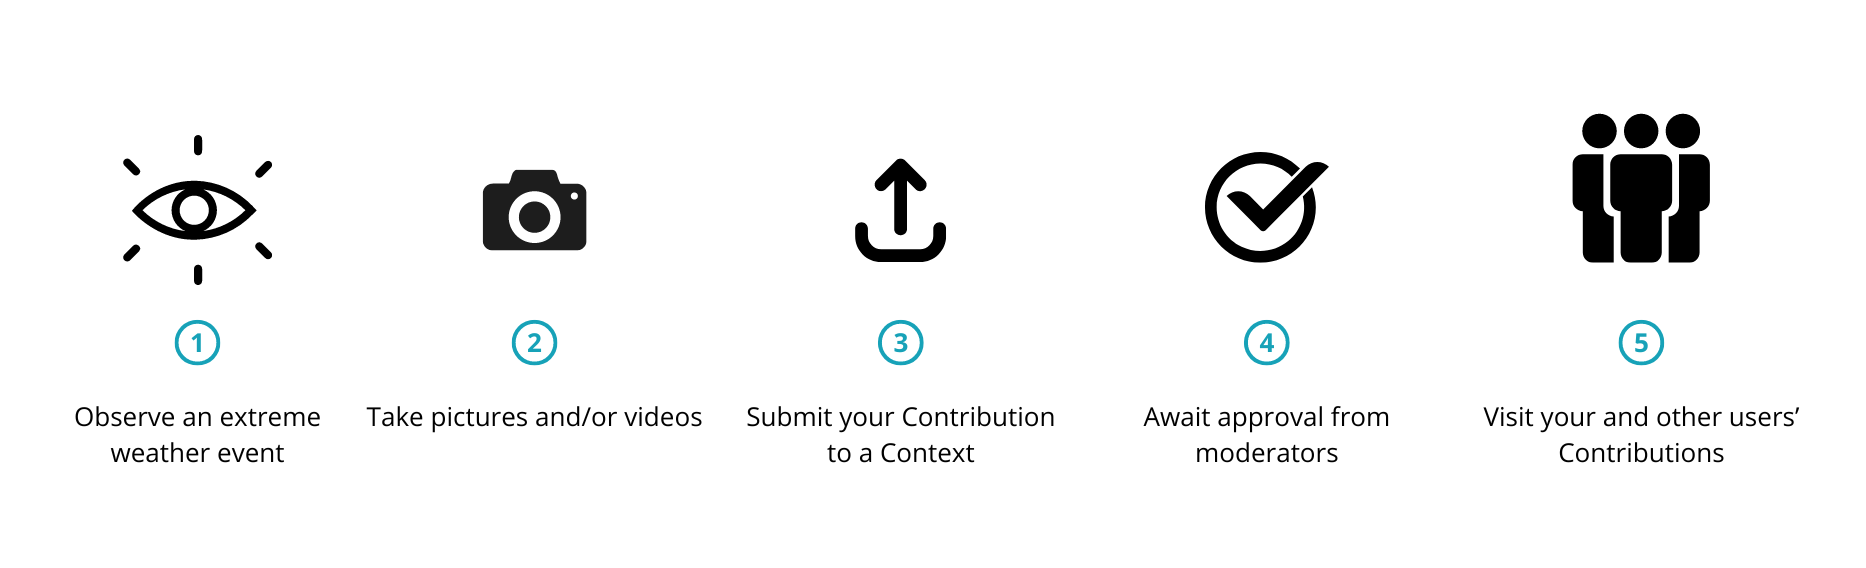
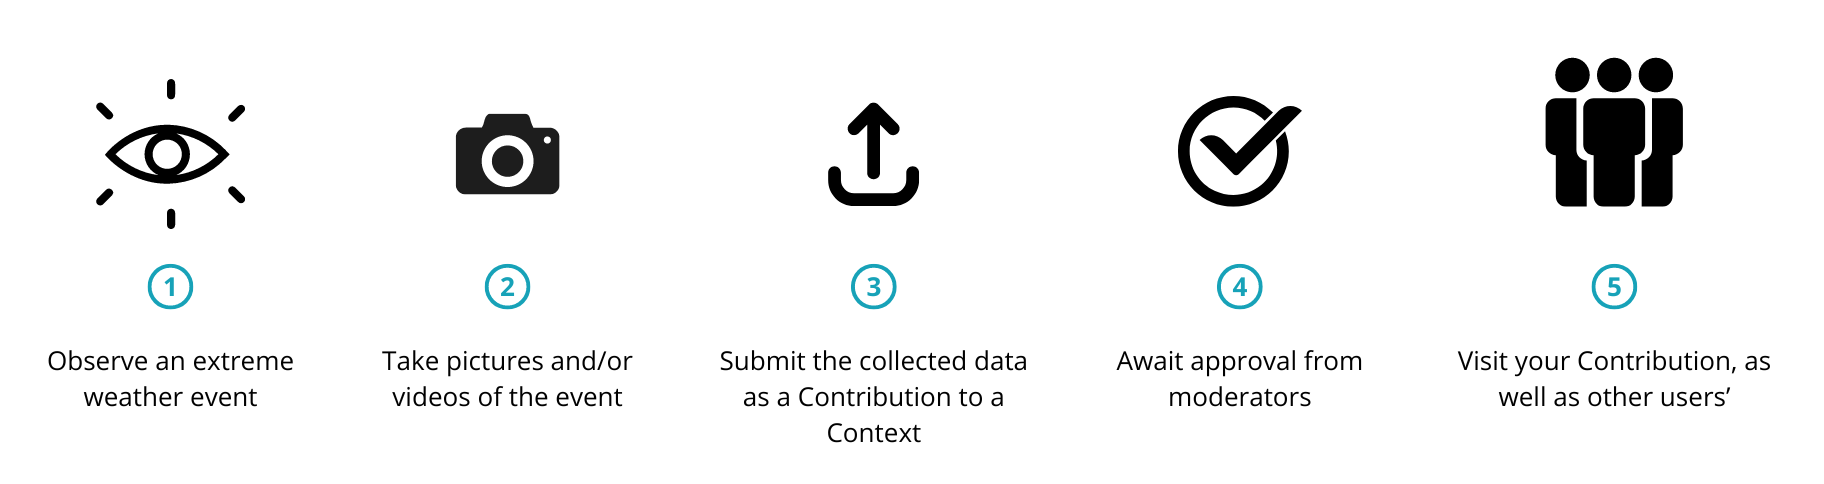
Extra questions in Contribution form

diff --git a/contributions/templates/contributions/contribution_form.html b/contributions/templates/contributions/contribution_form.html
@@ -50,12 +50,54 @@
     .word-color {
         color: #17a2b8;
     }
+
+    .hidden {
+        display: none;
+    }
 </style>
 
 
 <script>
 
+    function showDivs(divsToShow, divsToHide) {
+        for (let div of divsToHide) {
+            div.classList.add("hidden");
+        }
+        for (let div of divsToShow) {
+            div.classList.remove("hidden");
+        }
+    }
+
+    // Inputs are all inside form. Depending on selection, they are hidden or shown
+
     document.addEventListener('DOMContentLoaded', () => {
+
+        // Flood
+        var div_id_floating_objects_time = document.getElementById("div_id_floating_objects_time");
+        var div_id_water_height = document.getElementById("div_id_water_height");
+        // Tornado
+        var div_id_velocity = document.getElementById("div_id_velocity");
+        var div_id_tornado_type = document.getElementById("div_id_tornado_type");
+
+        // By default, 'Flood' is selected
+        showDivs([div_id_floating_objects_time, div_id_water_height], [div_id_velocity, div_id_tornado_type]);
+        console.log("hid");
+
+        document.getElementById("id_situationObserved").addEventListener("change", (event) => {
+            situationObserved = event.target.value;
+
+            if (situationObserved == "FLOOD") {
+                showDivs([div_id_floating_objects_time, div_id_water_height], [div_id_velocity, div_id_tornado_type]);
+            } else if (situationObserved == "TORNADO") {
+                showDivs([div_id_velocity, div_id_tornado_type], [div_id_floating_objects_time, div_id_water_height]);
+            } else {
+                showDivs([], [div_id_floating_objects_time, div_id_water_height, div_id_velocity, div_id_tornado_type]);
+            }
+        });
+
+
+
+
         window.addEventListener("map:init", e => {
 
             const map = e.detail.map;
@@ -142,6 +184,7 @@
     <form method="POST" enctype="multipart/form-data" id="contributionForm">
         {% csrf_token %}
 
+        <!-- Main data -->
         {{ form|crispy }}
 
         <!-- Confirm Modal Button-->

diff --git a/contributions/models.py b/contributions/models.py
@@ -1,5 +1,4 @@
 import os
-import subprocess
 
 from django_fsm import FSMField, transition
 from datetime import datetime
@@ -7,14 +6,12 @@ from uuid import uuid4
 from mimetypes import guess_type
 from PIL import Image
 
+from django.core.validators import MinValueValidator
 from django.utils.translation import gettext_lazy as _
 
 from django.contrib.gis.db import models
-from django.contrib.gis.geos import Point
 from django.contrib.auth.models import User
 
-from context.models import EVENTKIND_CHOICES
-from rivercureproject.settings import MEDIA_ROOT
 
 # States for a Contribution
 class ContributionStatus(models.TextChoices):
@@ -32,6 +29,10 @@ class SituationChoices(models.TextChoices):
     TORNADO = _("TORNADO"), _("Tornado")
     LANDSLIDE = _("LANDSLIDE"), _("Landslide")
     RIVER_POLLUTION = _("RIVER_POLLUTION"), _("River Pollution")
+
+class TornadoType(models.TextChoices):
+    ON_WATER = _("ON_WATER"), _("On Water")
+    ON_LAND = _("ON_LAND"), _("On Land")
 
 # TODO: Repeated code in here!
 def create_contribution_thumbnail_name(instance, filename):
@@ -78,7 +79,13 @@ class e_ContextContribution(models.Model):
     observationDescription = models.TextField()
     situationObserved = models.CharField(max_length=30, choices=SituationChoices.choices)
 
-    # TODO: Add extra information asked depending on SituationObserved
+    # Extra information asked depending on situationObserved
+    # Flood
+    floating_objects_time = models.DurationField(blank=True, null=True)
+    water_height = models.FloatField(validators=[MinValueValidator(0)], blank=True, null=True)
+    # Tornado
+    velocity = models.IntegerField(validators=[MinValueValidator(0)], blank=True, null=True) # km/h
+    tornado_type = models.CharField(max_length=10, choices=TornadoType.choices, blank=True)
 
     class Meta:
         verbose_name = 'Contribution'

diff --git a/contributions/forms.py b/contributions/forms.py
@@ -7,7 +7,7 @@ from django.forms import ValidationError
 
 from django.utils.translation import gettext_lazy as _
 
-from .models import e_ContextContribution, SituationChoices
+from .models import e_ContextContribution, SituationChoices, TornadoType
 
 class MultipleFileInput(forms.ClearableFileInput):
     allow_multiple_selected = True
@@ -42,6 +42,18 @@ class ContributionInitialForm(forms.ModelForm):
     file_field = MultipleFileField(help_text=_('Optional: Submit any photos or videos you have related to the situation you observed. Only submit up to 10 files, with a total size of 10mb.'),
                                    label=_('Images and videos'),
                                    required=False)
+    floating_objects_time = forms.DurationField(label=_('Transit Time of Floating Objects'),
+                                                required=False,
+                                                widget=forms.TextInput(attrs={'placeholder': 'HH:MM:SS',}))
+    water_height = forms.FloatField(label=_('Water Height'),
+                                    required=False,
+                                    widget=forms.NumberInput(attrs={'placeholder': _('Height in meters.'),}))
+    velocity = forms.IntegerField(label=_('Velocity'),
+                                  required=False,
+                                  widget=forms.NumberInput(attrs={'placeholder': _('Velocity in km/h.')}))
+    tornado_type = forms.ChoiceField(choices=TornadoType.choices,
+                                     label=_('Tornado Type'),
+                                     required=False)
 
     class Meta:
         model = e_ContextContribution

diff --git a/contributions/views.py b/contributions/views.py
@@ -17,7 +17,7 @@ import datetime
 from PIL import Image
 from pyffmpeg import FFmpeg
 
-from .models import e_ContextContribution, e_ContributionAttachment, ContributionStatus, e_ContributionReport, e_ContributionValidation
+from .models import e_ContextContribution, e_ContributionAttachment, ContributionStatus, e_ContributionReport, e_ContributionValidation, SituationChoices
 from .forms import ContributionInitialForm, RejectionForm, ReportForm
 from .filters import ContributionFilter, MyContributionsFilter
 from .authorization import *
@@ -78,6 +78,14 @@ class ContributionCreateView(LoginRequiredMixin, CreateView):
         new_contribution.context = _context
         new_contribution.creationDateTime = datetime.datetime.now()
         new_contribution.observationPlace = Point(long, lat)
+
+        # Set extra data
+        if (new_contribution.situationObserved == SituationChoices.FLOOD):
+            new_contribution.floating_objects_time = form.cleaned_data['floating_objects_time']
+            new_contribution.water_height = form.cleaned_data['water_height']
+        elif (new_contribution.situationObserved == SituationChoices.TORNADO):
+            new_contribution.velocity = form.cleaned_data['velocity']
+            new_contribution.tornado_type = form.cleaned_data['tornado_type']
 
         # Save
         new_contribution.save()
